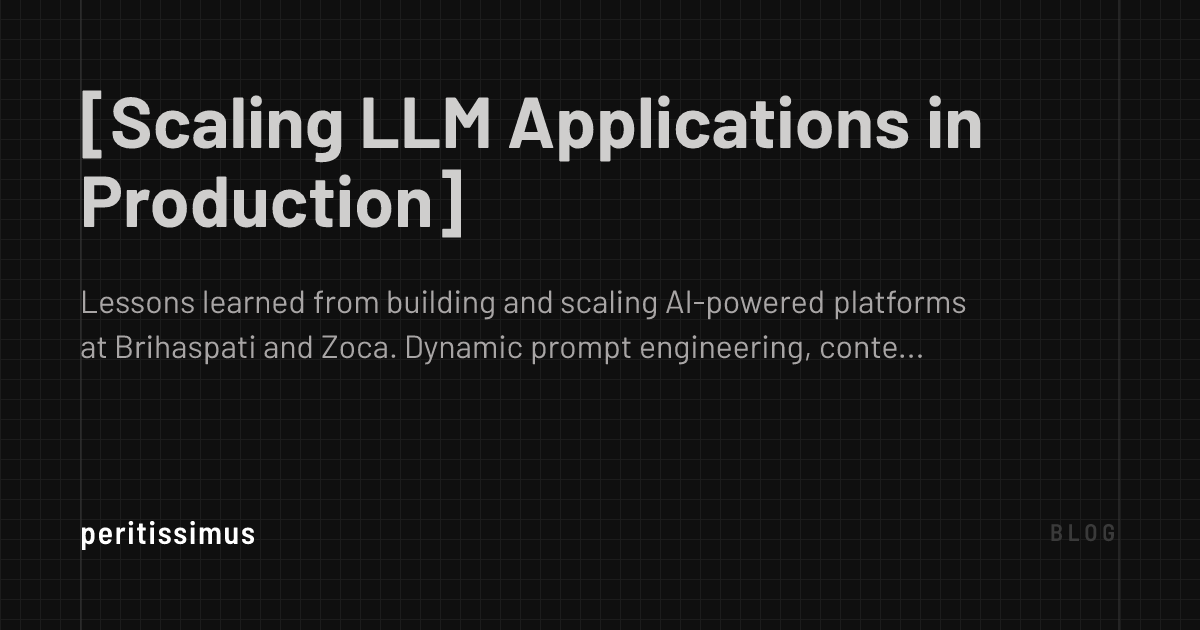
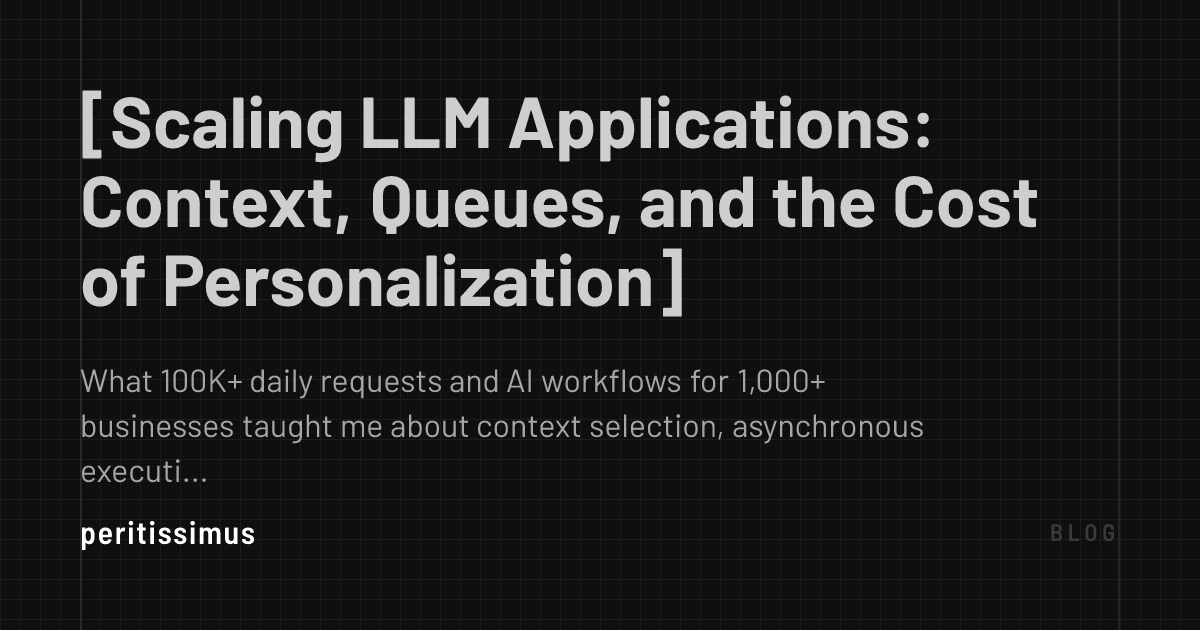
fix(og): strip frontmatter quotes from blog titles
The naive frontmatter regex kept the surrounding quotes, so quoted
titles rendered as ["Title"] on the generated card.

diff --git a/scripts/generate-og-images.js b/scripts/generate-og-images.js
@@ -96,10 +96,13 @@ function getBlogPosts() {
     const titleMatch = frontmatter.match(/title:\s*(.+)/);
     const descMatch = frontmatter.match(/description:\s*(.+)/);
 
+    // Frontmatter values may be quoted; the quotes are syntax, not content.
+    const unquote = (value) => value.trim().replace(/^(['"])([\s\S]*)\1$/, '$2');
+
     return {
       slug: file.replace('.md', ''),
-      title: titleMatch ? titleMatch[1].trim() : file.replace('.md', ''),
-      description: descMatch ? descMatch[1].trim() : '',
+      title: titleMatch ? unquote(titleMatch[1]) : file.replace('.md', ''),
+      description: descMatch ? unquote(descMatch[1]) : '',
       type: 'blog',
     };
   }).filter(Boolean);
